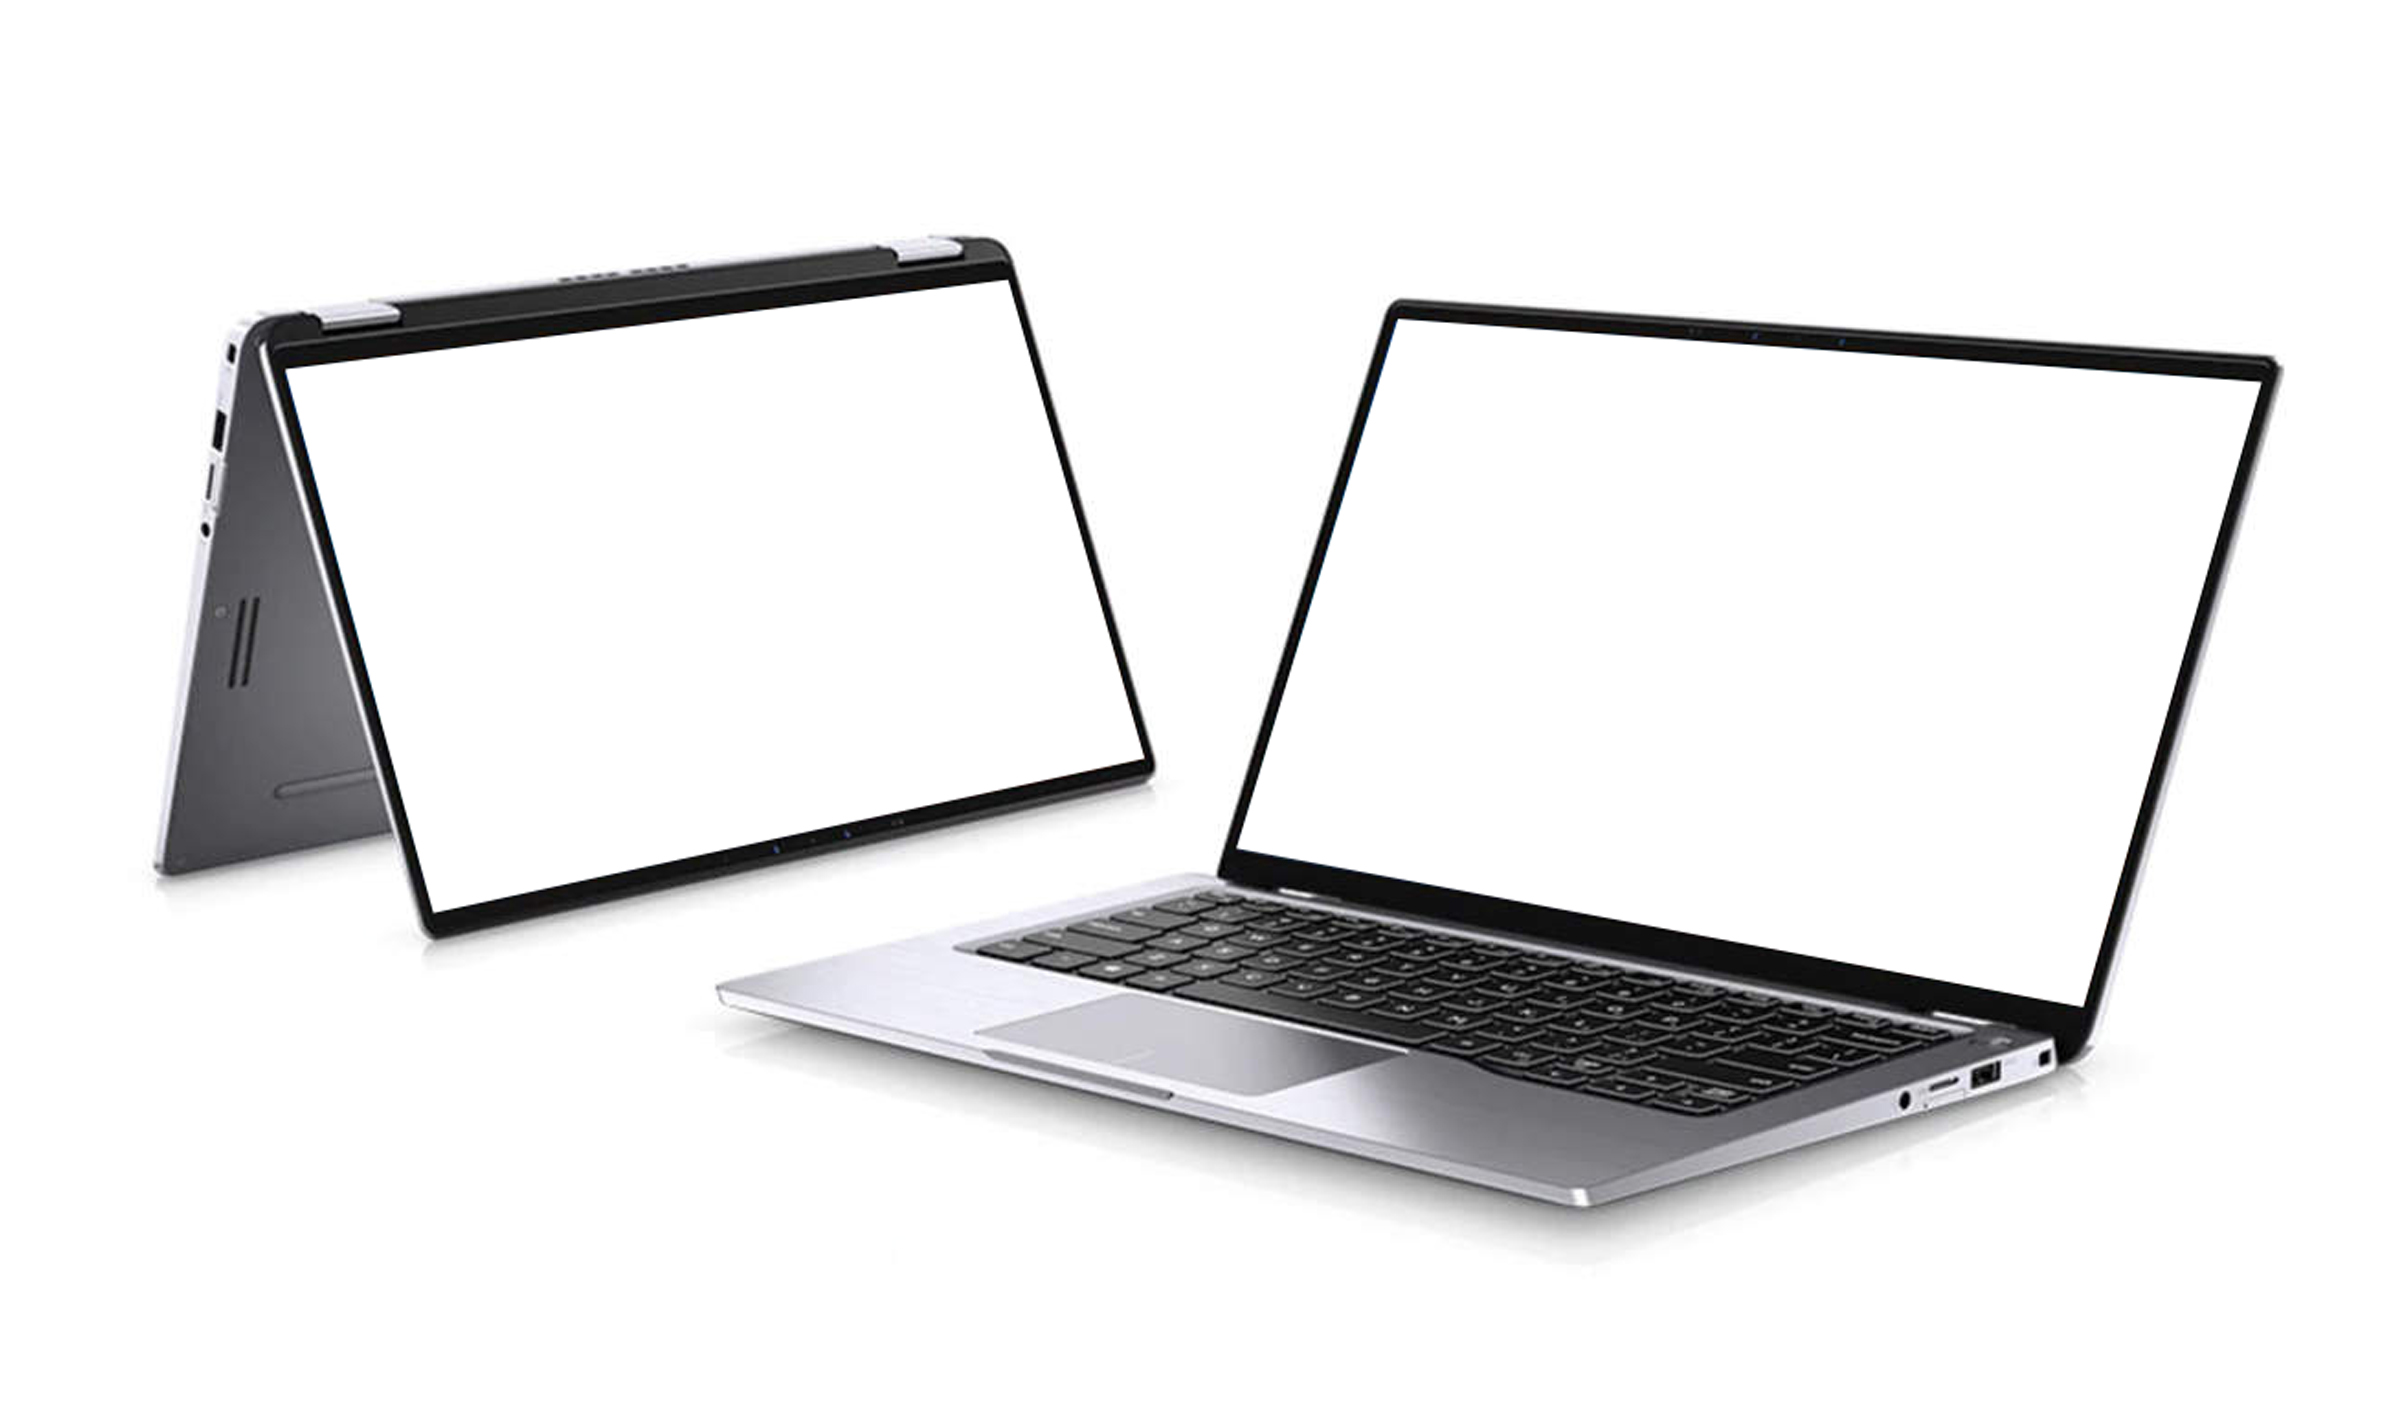
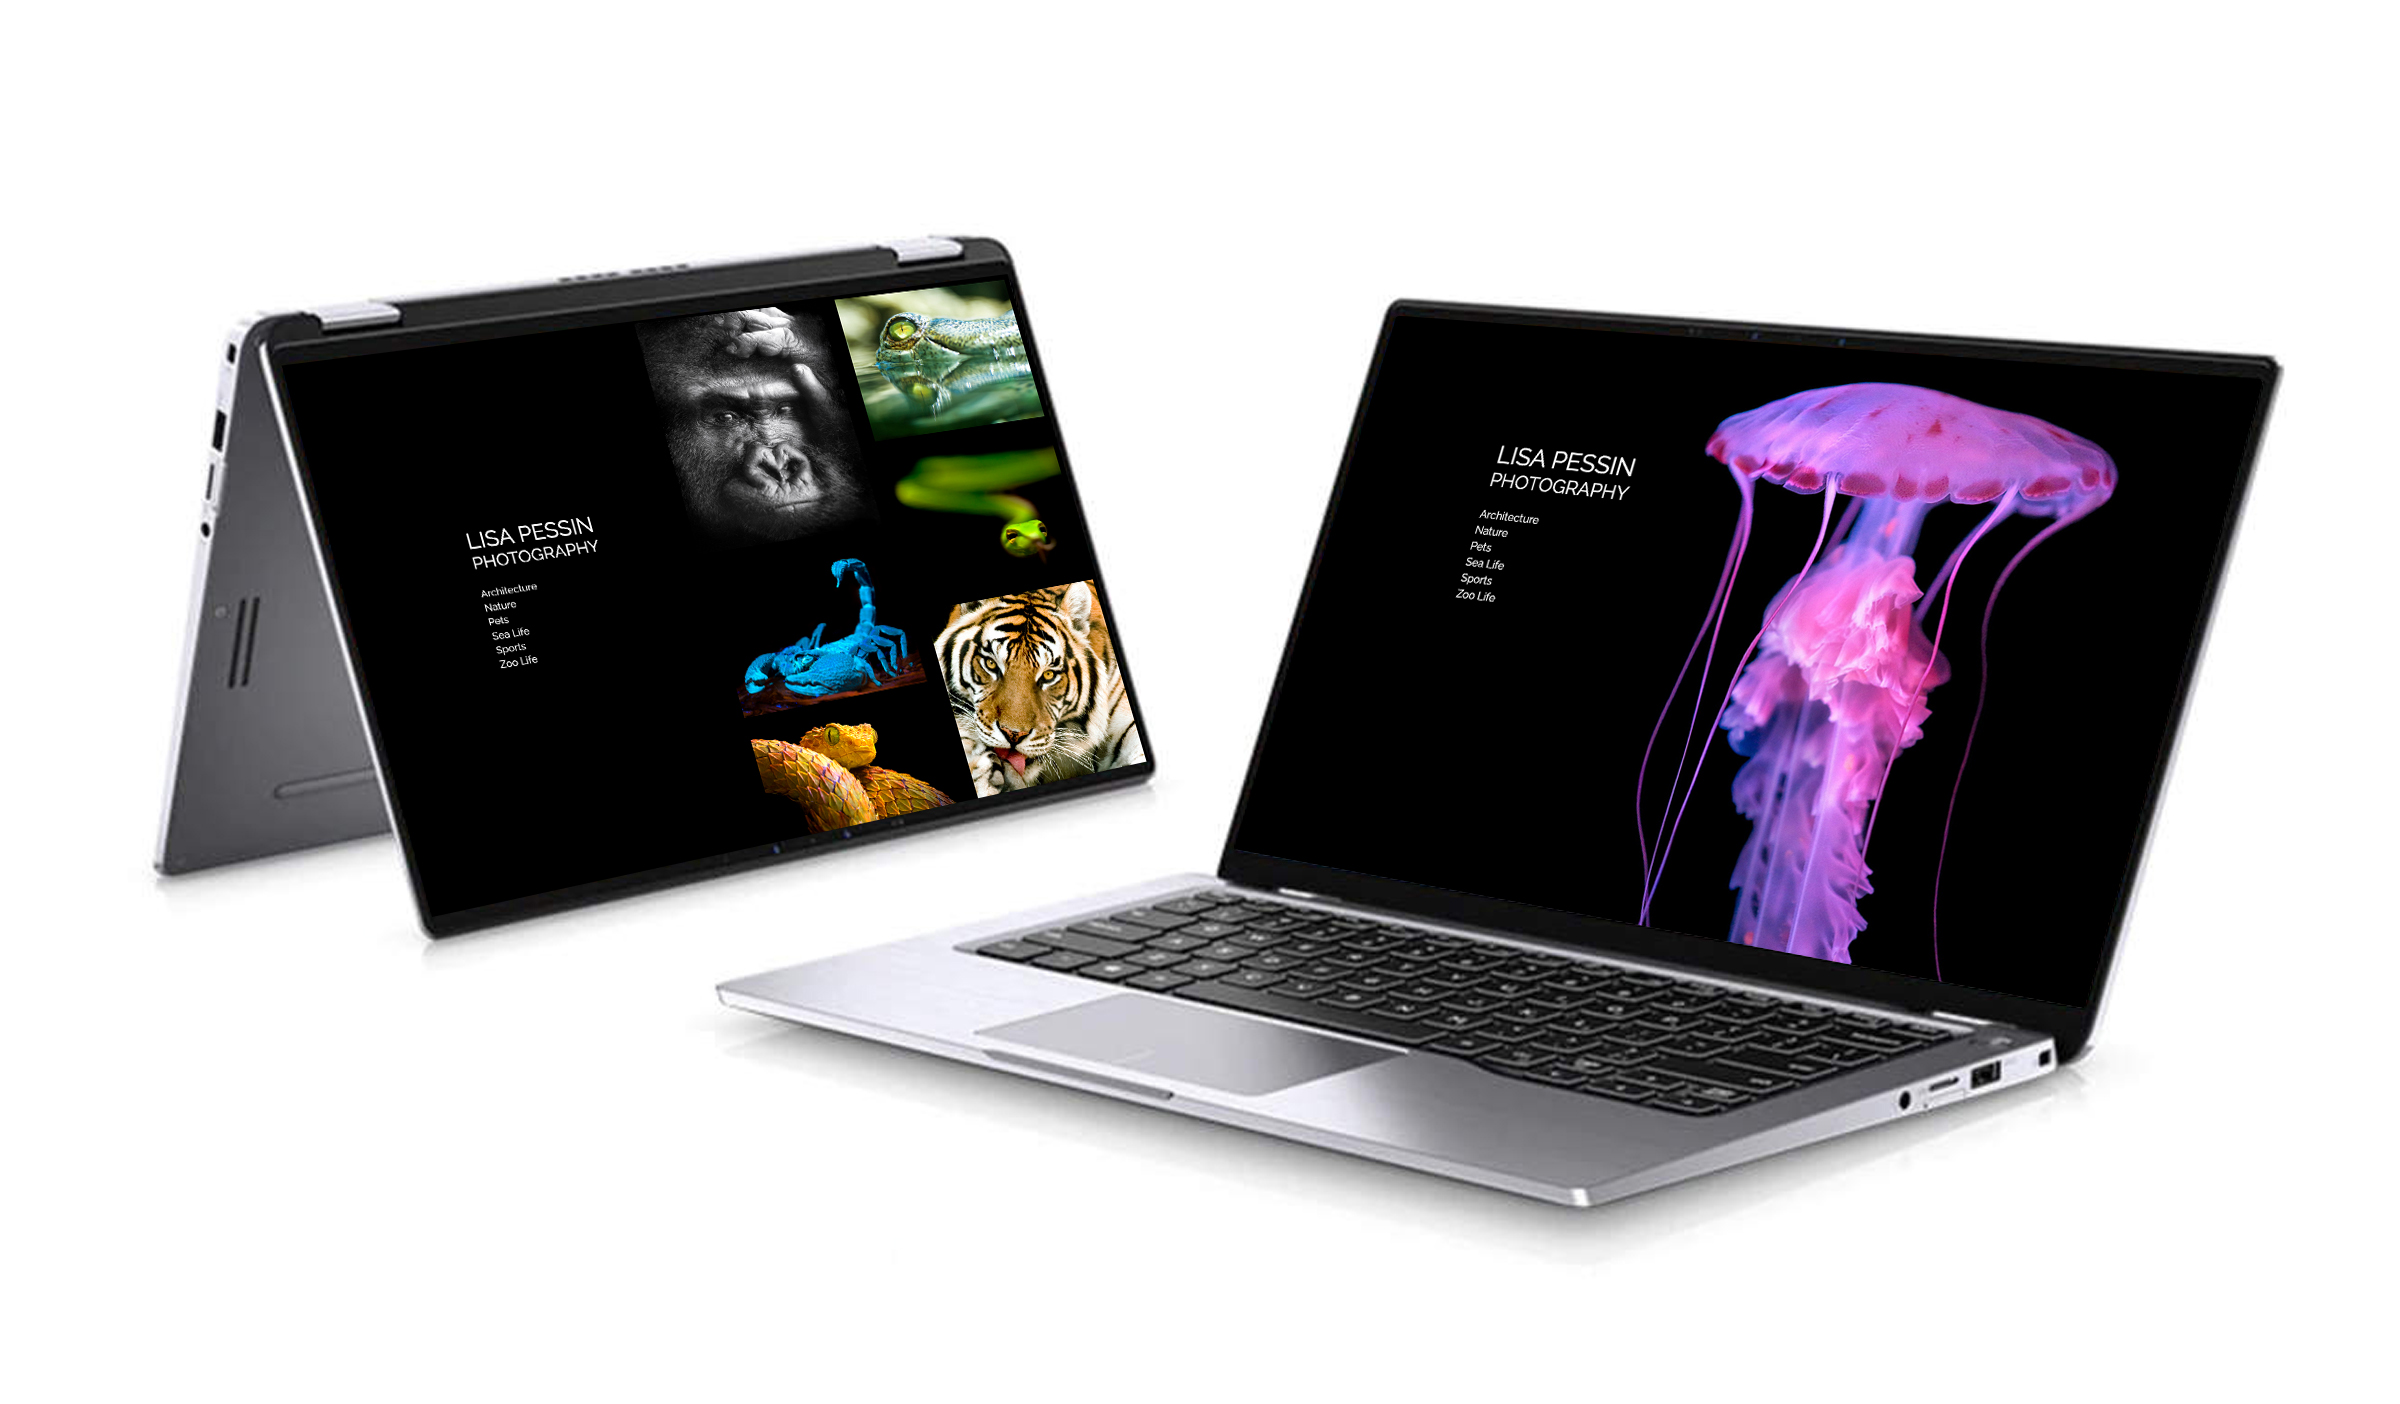
changed photos portfolio

Changed region(s): [[0.125, 0.1838, 0.9375, 0.735]]

diff --git a/src/components/pages/portfolioMyPhotos.js b/src/components/pages/portfolioMyPhotos.js
@@ -3,7 +3,7 @@ import React from "react";
 import logo from "../images/LPlogo.png";
 import myPhotosBanner from "../images/myPhotosBanner.jpg";
 import myPhotosMonitor from "../images/myPhotosMonitor.jpg";
-// import Screenshot from "../images/";
+import Screenshot from "../images/myPhotosScreenshot.jpg";
 
 import arrowLeft from "../images/chevron-left.png";
 import arrowRight from "../images/chevron-right.png";
@@ -96,9 +96,9 @@ function PortfolioMyPhotos() {
         <br></br>
 
         <div className="description">
-          <p>Description</p>
+          <p>This website is my portfolio of my personal photography work. It includes photos of animals at several zoos and aquariums, as well as architecture and nature at various sites throughout the United States and Canada. My sports photos are a collection of work I created while volunteering with Blaze Sports and The Special Olympics.</p>
 
-          <p className="description">Technologies Used:</p>
+          <p className="description">Technologies Used: HTML & CSS</p>
         </div>
 
         <br></br>
@@ -112,7 +112,7 @@ function PortfolioMyPhotos() {
         <br></br>
 
         <div>
-          {/* <img src={Screenshot} className="image-screenshot" alt="" /> */}
+          <img src={Screenshot} className="image-screenshot" alt="" />
         </div>
       </div>
     </div>
